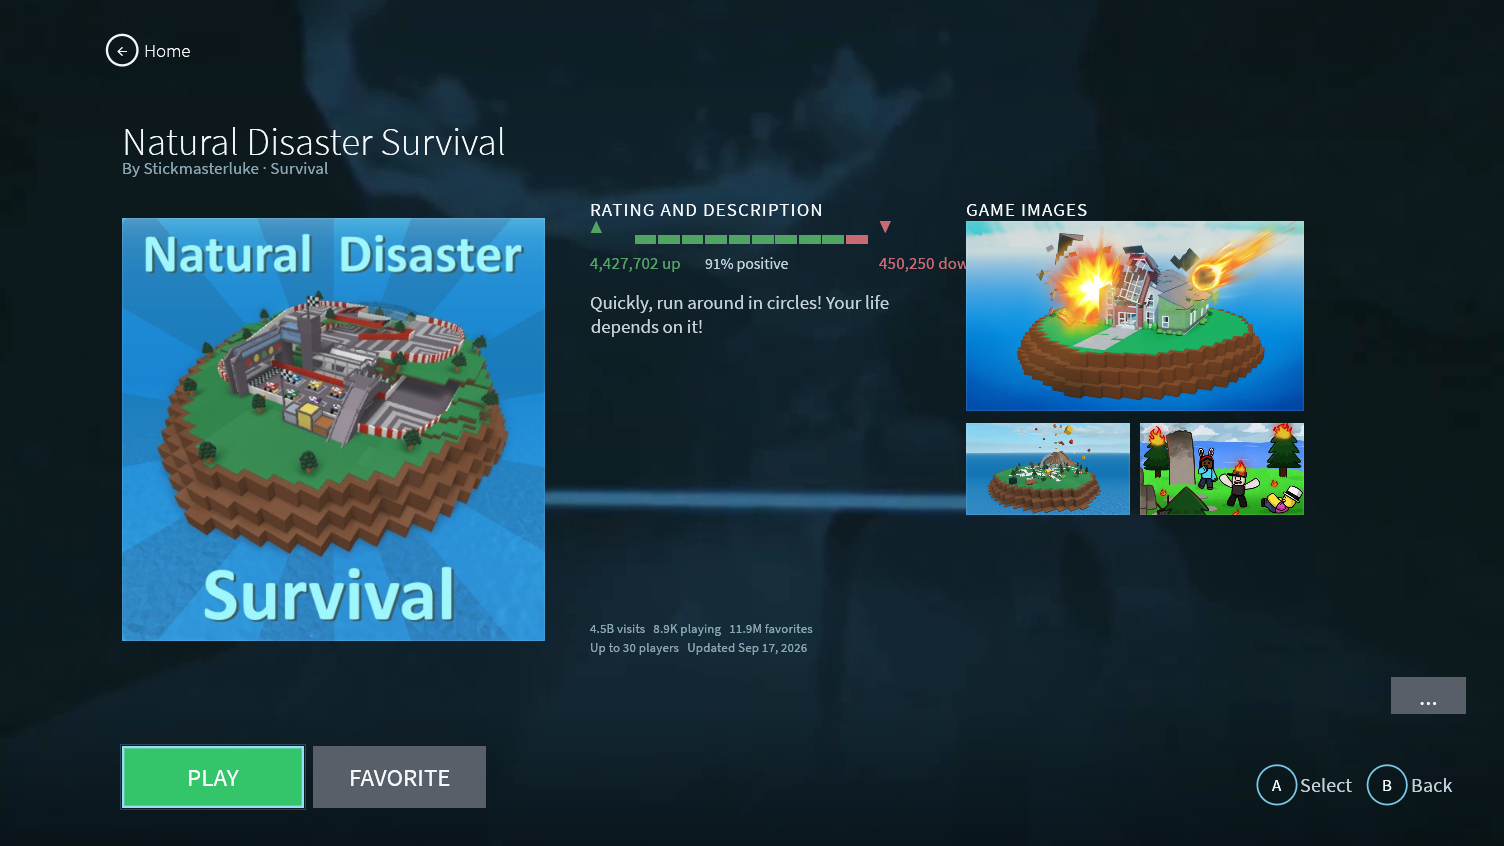
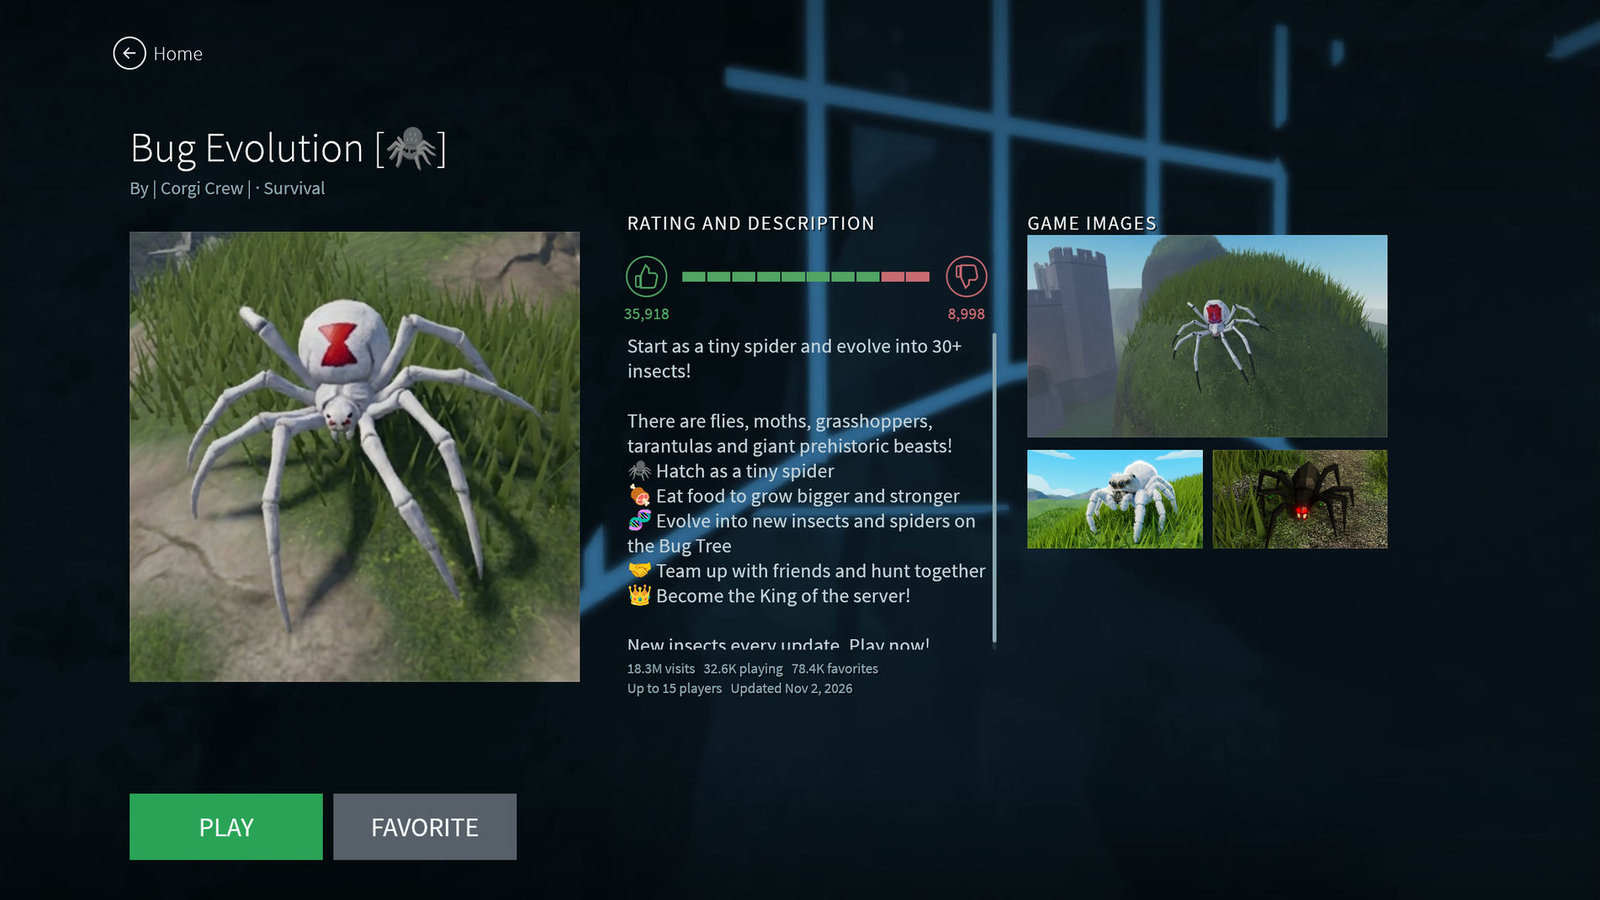
Refresh README screenshots

diff --git a/docs/screenshots/README.md b/docs/screenshots/README.md
@@ -1,14 +1,14 @@
 # Screenshots
 
-These images were captured from the Rust shell on 2026-11-03 at 1280x720 logical size (1504x846 physical under Xvfb at KDE's 1.175 scale). The title, sign-in, home, games, details, and audio captures use the local 2016 background recording so the measured 2016 layout can be compared; that recording is not in the app bundle. See [`../fidelity-pass.md`](../fidelity-pass.md) and [`../ui-audio-pass-2026-11-03.md`](../ui-audio-pass-2026-11-03.md).
+These images were captured from the Rust shell. The games, search, and details images were refreshed on 2026-11-04 at 1600x900; the remaining images were captured on 2026-11-03 at 1504x846. The title, sign-in, home, games, search, details, and audio captures use the local 2016 background recording so the measured 2016 layout can be compared; that recording is not in the app bundle. See [`../fidelity-pass.md`](../fidelity-pass.md) and [`../ui-audio-pass-2026-11-03.md`](../ui-audio-pass-2026-11-03.md).
 
 - `title.png`: boot/title with the 2016 wordmark, measured 50 px tagline, video background, and the press-any-button prompt.
 - `signin.png`: sign-in choice with the video background, WebView sign-in, read-only Sober import, guest browsing, and Create Account.
 - `webview-login.png`: the real Roblox login page in the isolated WebKitGTK helper.
 - `home.png`: live 4×2 square-tile featured grid, focused avatar card, guest avatar, and honest friend empty state. Signed-in sessions use an upper-body avatar crop.
-- `games.png`: three live square-tile sort carousels with the 2016 overflow buttons.
-- `search.png`: live search results for "natural disaster".
-- `details.png`: live details for Natural Disaster Survival with a square game icon and the measured media column.
+- `games.png`: live square-tile sort carousels with the 2016 overflow buttons.
+- `search.png`: live search results for "Adopt Me".
+- `details.png`: live details for Bug Evolution by Corgi Crew, with a square game icon and the measured media column.
 - `launch.png`: real Joined state for Natural Disaster Survival (`189707`) after Search → Details → Play on the final release binary.
 - `launch-dontsplash.png`: real Joined state for the first featured game, DONT SPLASH, from Home → Details → Play on the final release binary.
 - `launch-failed.png`: honest Launch failed state, captured while another game had exhausted VRAM. It shows crash detection and the Retry / Open Sober / Back actions.

diff --git a/README.md b/README.md
@@ -157,15 +157,14 @@ packaging/           desktop entry and icons
 |---|---|
 | ![Games screen](docs/screenshots/games.png) | ![Search screen](docs/screenshots/search.png) |
 
-| Details | Joined |
-|---|---|
-| ![Game details](docs/screenshots/details.png) | ![Joined game](docs/screenshots/launch.png) |
+| Details |
+|---|
+| ![Game details](docs/screenshots/details.png) |
 
 More screenshots are in [`docs/screenshots/`](docs/screenshots/README.md), including sign-in, settings, and launch failure states.
 
 ## Documentation
 
-- [`PLAN.md`](PLAN.md): master plan, phase gates, risks, and decisions.
 - [`docs/backend.md`](docs/backend.md): authentication, session, catalog APIs, and the Sober launch contract.
 - [`docs/ui-reference.md`](docs/ui-reference.md): 2016 screen specifications, design tokens, and controller mapping.
 - [`docs/fidelity-pass.md`](docs/fidelity-pass.md): measured title, sign-in, home, and avatar layouts.
